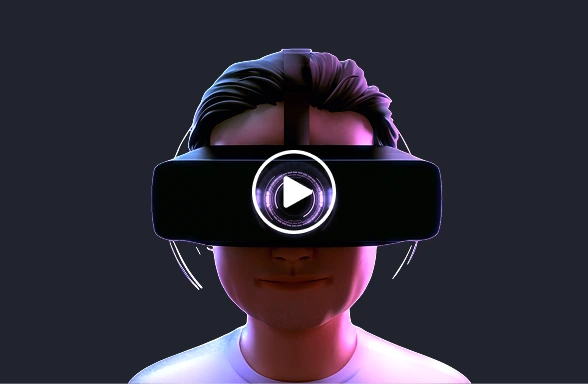
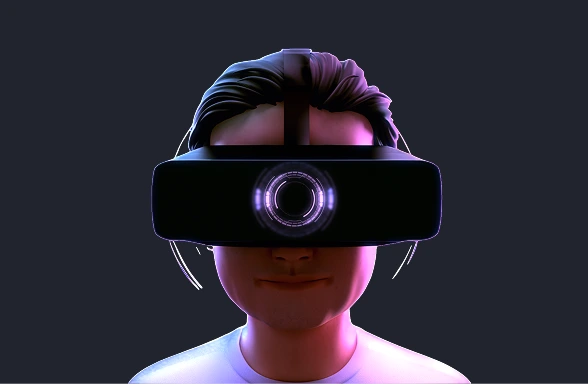
VRN-29: Внесла правки

Changed region(s): [[0.4286, 0.375, 0.5816, 0.625]]

diff --git a/src/components/video/Video.module.scss b/src/components/video/Video.module.scss
@@ -3,6 +3,13 @@
    border: none;
    cursor: pointer;
    position: absolute;
+}
+
+.wrapper {
+   position: relative;
+   width: 100%;
+   height: 100%;
+   z-index: 1;
    transition: transform 0.2s ease-in-out;
 
    @include hover {
@@ -10,8 +17,17 @@
    }
 }
 
-.video img {
+.videoImage {
    width: 100%;
    height: 100%;
    object-fit: cover;
+}
+
+.videoPlayIcon {
+   position: absolute;
+   inset: 0;
+   margin: auto;
+   width: 28px;
+   height: 28px;
+   min-height: 28px;
 }

diff --git a/src/components/video/Video.tsx b/src/components/video/Video.tsx
@@ -1,6 +1,7 @@
 import Image from "next/image";
 import styles from "./Video.module.scss";
 import videoImage from "@/assets/images/hero/hero-video.webp";
+import videoPlayIcon from "@/assets/images/video-play.svg";
 import { VideoConfig } from "./Video.types";
 
 function Video({ config }: VideoConfig) {
@@ -18,7 +19,15 @@ function Video({ config }: VideoConfig) {
             height: height,
          }}
       >
-         <Image src={videoImage} alt="video" />
+         <div className={styles.wrapper}>
+            <Image src={videoImage} alt="Видео" className={styles.videoImage} />
+
+            <Image
+               src={videoPlayIcon}
+               alt="Видео плеер"
+               className={styles.videoPlayIcon}
+            />
+         </div>
       </button>
    );
 }

diff --git a/src/pages/home/components/hero/components/clients/Clients.consts.ts b/src/pages/home/components/hero/components/clients/Clients.consts.ts
@@ -1,6 +1,6 @@
-import clientImage1 from "@/assets/images/hero/hero-client-1.webp";
-import clientImage2 from "@/assets/images/hero/hero-client-2.webp";
-import clientImage3 from "@/assets/images/hero/hero-client-3.webp";
+import clientImage1 from "@/assets/images/hero/hero-clients/hero-client-1.webp";
+import clientImage2 from "@/assets/images/hero/hero-clients/hero-client-2.webp";
+import clientImage3 from "@/assets/images/hero/hero-clients/hero-client-3.webp";
 import { HeroClientsProps } from "./Clients.types";
 
 export const HERO_CLIENTS_DATA: HeroClientsProps = {

diff --git a/src/assets/styles/globals.scss b/src/assets/styles/globals.scss
@@ -74,13 +74,13 @@ ul {
 }
 
 .page-bg {
-   background-image: url("../../assets/images/page-bg-top-right-desktop.svg");
+   background-image: url("../../assets/images/page-bg-top-right-desk.svg");
    background-size: 780px auto;
    background-position: top right;
    background-repeat: no-repeat;
 
    @include tablet {
-      background-image: url("../../assets/images/page-bg-top-right-mobile.svg");
+      background-image: url("../../assets/images/page-bg-top-right-mob.svg");
       background-size: 90% auto;
    }
 }

diff --git a/src/layouts/footer/Footer.module.scss b/src/layouts/footer/Footer.module.scss
@@ -1,5 +1,5 @@
 .footer {
-   background-image: url("../../assets/images/footer-background-desktop.webp");
+   background-image: url("../../assets/images/footer-bg-desk.webp");
    background-size: 1011px 498px;
    background-position: left bottom;
    background-repeat: no-repeat;
@@ -8,7 +8,7 @@
    margin-top: 64px;
 
    @include mobile {
-      background-image: url("../../assets/images/footer-background-mobile.webp");
+      background-image: url("../../assets/images/footer-bg-mob.webp");
       background-size: 100% auto;
       padding-top: 92px;
       padding-bottom: 21px;

diff --git a/src/layouts/footer/Footer.tsx b/src/layouts/footer/Footer.tsx
@@ -6,7 +6,7 @@ import SocialMedia from "./components/social-media/SocialMedia";
 import Container from "@/components/container/Container";
 import Link from "next/link";
 import Image from "next/image";
-import Logo from "@/assets/images/Logo.webp";
+import Logo from "@/assets/images/logo.webp";
 import Nav from "./components/nav/Nav";
 import { NAV_SECTIONS } from "./components/nav/Nav.consts";
 import cn from "classnames";
@@ -18,7 +18,7 @@ function Footer() {
             <div className={cn(styles.content, "border-brand")}>
                <div className={styles.left}>
                   <Link href="/">
-                     <Image src={Logo} alt="logo" className={styles.logo} />
+                     <Image src={Logo} alt="Логотип" className={styles.logo} />
                   </Link>
 
                   <SocialMedia socials={SOCIAL_MEDIA_ITEMS.socials} />

diff --git a/src/layouts/header/Header.tsx b/src/layouts/header/Header.tsx
@@ -5,7 +5,7 @@ import Link from "next/link";
 import cn from "classnames";
 import styles from "./Header.module.scss";
 import Image from "next/image";
-import Logo from "@/assets/images/Logo.webp";
+import Logo from "@/assets/images/logo.webp";
 import { useClientBreakpoint } from "@/hooks/useClientBreakpoint";
 import Button from "@/components/button/Button";
 import Typography from "@/components/typography/Typography";
@@ -39,7 +39,7 @@ function Header() {
          <Container>
             <div className={styles.header}>
                <Link href="/">
-                  <Image src={Logo} alt="logo" className={styles.logo} />
+                  <Image src={Logo} alt="Логотип" className={styles.logo} />
                </Link>
 
                {isDesktop && <Nav navLinks={NAV_LINKS.navLinks} />}

diff --git a/src/pages/home/HomeContent.tsx b/src/pages/home/HomeContent.tsx
@@ -1,9 +1,8 @@
-import styles from "./HomeContent.module.scss";
 import Hero from "./components/hero/Hero";
 
 function HomeContent() {
    return (
-      <div className={styles.page}>
+      <div>
          <Hero />
       </div>
    );